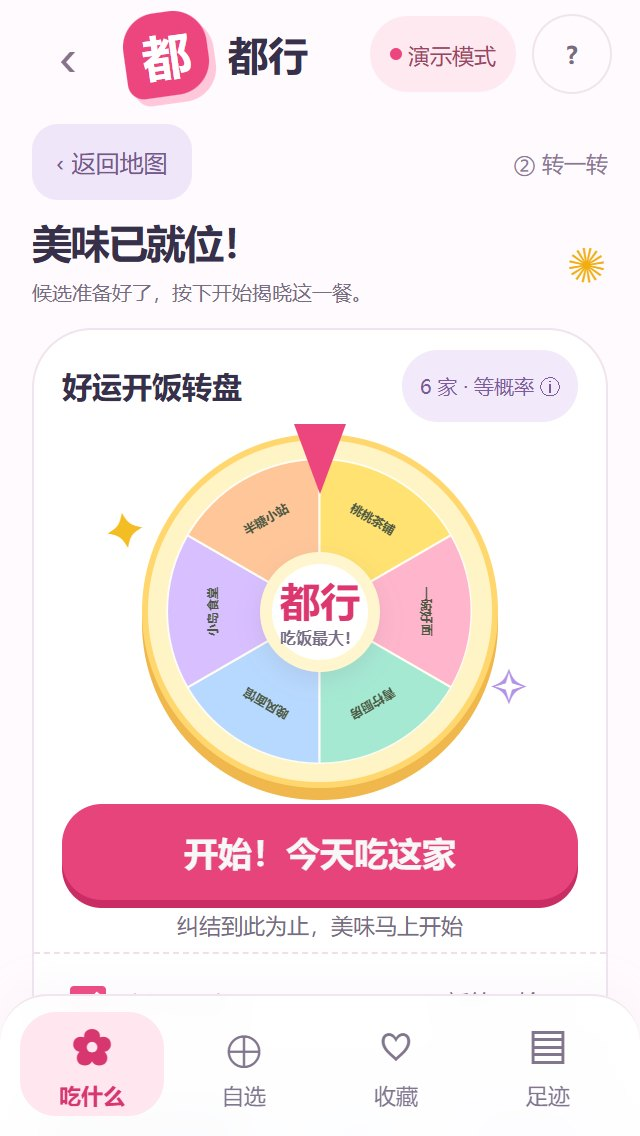
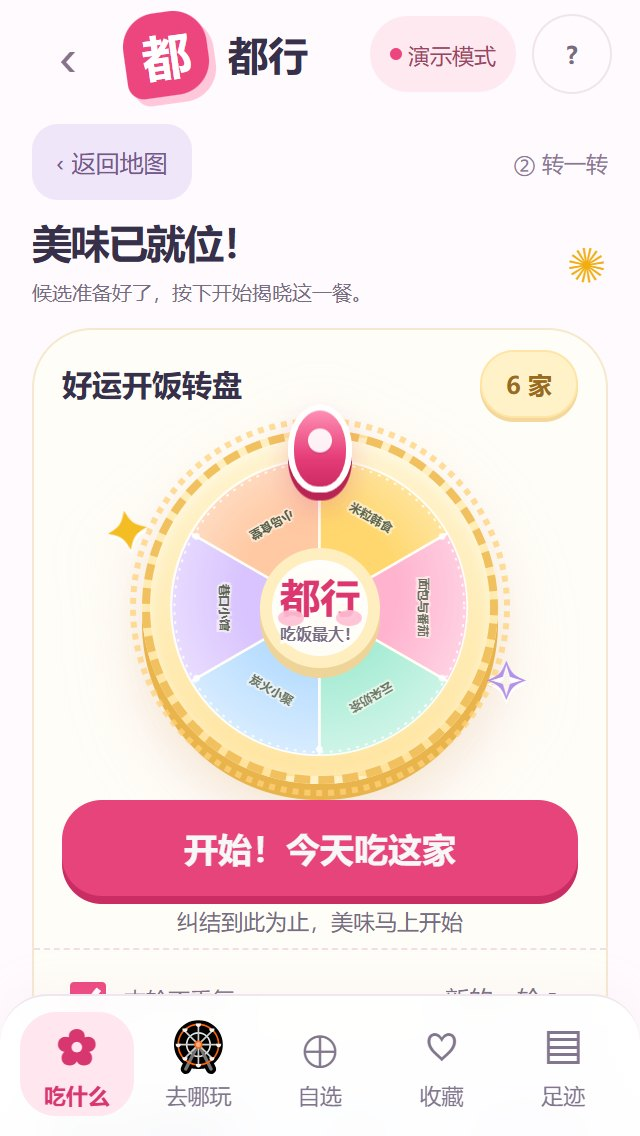
style: cuter cartoon wheel and remove custom filter card
- custom page drops the filter tile; shows current travel/budget conditions and no category re-filter
- wheel header shows only the candidate count; rules stay reachable by tap
- cartoon wheel: dashed butter rim, dotted outer ring, lollipop pointer, blush hub, glossy sectors, dashed inner ring, flipped labels
- empty custom wheel offers a 先添加候选 action that opens the editor
- refresh wheel screenshots and docs

diff --git a/app.js b/app.js
@@ -33,16 +33,17 @@ function renderExplore(){
   const originLabel=state.custom.length?`${state.custom.length} ${play?'个心愿场馆':'家心愿餐厅'}`:state.origin.name;
   $('#view').innerHTML=heading(play?'想玩的，都放进来！':'喜欢的，都放进来！','你来出题，让转盘给答案。')+modeSwitch()+
   `<div class="home-controls"><button class="location-tile" id="openCustom"><span class="tile-icon">${play?'🎡':'🍱'}</span><span class="grow"><small>编辑我的候选</small><strong>${esc(originLabel)}</strong></span><span class="chevron">›</span></button>
-  <button class="filter-tile" id="openFilters"><span class="tile-icon">${play?'🎡':'🍋'}</span><span class="grow"><strong>${c.types.length?esc(c.types.join(' / ')):(play?'玩什么都行':'口味都行')}<small>${c.mode+' '+c.limit+' 分钟'} · ${c.budget?'人均 ¥'+c.budget+' 内':'预算不限'}</small></strong></span><span class="filter-label">筛选</span></button></div>
+  </div>
+  <p class="muted custom-hint">${c.mode} ${c.limit} 分钟 · ${c.budget?'人均 ¥'+c.budget+' 内':'预算不限'} · 手动挑选，不再按类别二次筛选</p>
   ${wheelPanel()}<div class="under-wheel"><button id="openCandidates" class="candidate-entry"><span>${play?'🎡':'🍽'}</span><strong>看看候选</strong><small>${available().length} 家</small><span>›</span></button><button id="refresh" class="refresh-entry" ${state.loading?'disabled':''}>↻ 换一批</button></div>
   <div class="source-line"><span>${custom?'自选候选':state.live?(play?'高德场馆 · 路线时间筛选':'高德餐厅 · 路线时间筛选'):(play?'演示模式 · 虚构场馆':'演示模式 · 虚构餐厅')}</span><button id="mapSetupLink">${state.live?'地图设置':'接入高德'}</button></div>`;
 }
-function wheelPanel(){const a=available(),play=isPlay();const needs=state.live&&state.page!=='custom'&&!a.length;return `<section class="panel wheel-panel"><div class="wheel-header"><h3>${play?'好运出发转盘':'好运开饭转盘'}</h3><button class="odds-pill" id="openRules">${a.length} 家 · 等概率 ⓘ</button></div><div class="wheel-wrap"><span class="wheel-spark spark-a" aria-hidden="true">✦</span><span class="wheel-spark spark-b" aria-hidden="true">✧</span><div class="pointer"></div><div class="wheel-rim"><div class="wheel-disc" id="disc">${wheelSVG(a)}</div></div><div class="hub">都行<small>${play?'玩得开心！':'吃饭最大！'}</small></div></div><div class="wheel-actions"><button id="${needs?'fetchCandidates':'spin'}" class="btn full" ${state.checkingMap||state.loading||(!needs&&!a.length)?'disabled':''}>${state.loading?(play?'正在找好玩的…':'正在找好吃的…'):needs?(play?'找找附近好玩的':'找找附近好吃的'):a.length?(play?'开始！今天就玩这个':'开始！今天吃这家'):'本轮抽完啦'}</button><p class="wheel-status" id="status" role="status">${esc(state.searchMessage||(state.loading?'正在核对路线时间，请稍候':state.drawn.size?'本轮已抽 '+state.drawn.size+' 家，惊喜不重样':needs?'先选好出发点，再找附近'+(play?'场馆':'餐厅'):(play?'纠结到此为止，好玩马上开始':'纠结到此为止，美味马上开始')))}</p></div><div class="wheel-footer"><label><input id="noRepeat" type="checkbox" ${!state.repeat?'checked':''}>本轮不重复</label><button class="quiet" id="reset">新的一轮 ↻</button></div></section>`}
-function wheelSVG(a){const colors=['#ffe271','#ffb6cc','#a5e9d3','#b8d9ff','#d8bfff','#ffc69a','#f9acd9','#a9e4ee','#dbed8c','#efd0fb'];if(!a.length)return '<svg viewBox="0 0 300 300"><circle cx="150" cy="150" r="149" fill="#eeeade"/></svg>';return `<svg viewBox="0 0 300 300">${a.map((s,i)=>{let step=360/a.length,start=-90+i*step,end=start+step,rad=x=>x*Math.PI/180,point=x=>[150+149*Math.cos(rad(x)),150+149*Math.sin(rad(x))],p=point(start),q=point(end),mid=start+step/2;return a.length===1?`<circle cx="150" cy="150" r="149" fill="${colors[0]}"/>`:`<path d="M150 150 L${p} A149 149 0 ${step>180?1:0} 1 ${q} Z" fill="${colors[i%colors.length]}" stroke="#fffdf4" stroke-width="2"/><text x="${150+100*Math.cos(rad(mid))}" y="${150+100*Math.sin(rad(mid))}" transform="rotate(${mid+90} ${150+100*Math.cos(rad(mid))} ${150+100*Math.sin(rad(mid))})" fill="#4c5842" font-size="${a.length>10?9:12}" text-anchor="middle" font-weight="600">${esc(s.name.slice(0,7))}</text>`}).join('')}</svg>`}
+function wheelPanel(){const a=available(),play=isPlay(),emptyCustom=state.page==='custom'&&!a.length;const needs=state.live&&state.page!=='custom'&&!a.length;const actionId=needs?'fetchCandidates':emptyCustom?'openCustom':'spin';const disabled=state.checkingMap||state.loading||(!needs&&!a.length&&!emptyCustom);return `<section class="panel wheel-panel"><div class="wheel-header"><h3>${play?'好运出发转盘':'好运开饭转盘'}</h3><button class="odds-pill" id="openRules" aria-label="查看抽取规则">${a.length} 家</button></div><div class="wheel-wrap"><span class="wheel-spark spark-a" aria-hidden="true">✦</span><span class="wheel-spark spark-b" aria-hidden="true">✧</span><div class="pointer"></div><div class="wheel-rim"><div class="wheel-disc" id="disc">${wheelSVG(a)}</div></div><div class="hub">都行<small>${play?'玩得开心！':'吃饭最大！'}</small></div></div><div class="wheel-actions"><button id="${actionId}" class="btn full" ${disabled?'disabled':''}>${state.loading?(play?'正在找好玩的…':'正在找好吃的…'):needs?(play?'找找附近好玩的':'找找附近好吃的'):a.length?(play?'开始！今天就玩这个':'开始！今天吃这家'):emptyCustom?'先添加候选':'本轮抽完啦'}</button><p class="wheel-status" id="status" role="status">${esc(state.searchMessage||(state.loading?'正在核对路线时间，请稍候':state.drawn.size?'本轮已抽 '+state.drawn.size+' 家，惊喜不重样':needs?'先选好出发点，再找附近'+(play?'场馆':'餐厅'):emptyCustom?(play?'点上面的“编辑我的候选”添加场馆':'点上面的“编辑我的候选”添加餐厅'):(play?'纠结到此为止，好玩马上开始':'纠结到此为止，美味马上开始')))}</p></div><div class="wheel-footer"><label><input id="noRepeat" type="checkbox" ${!state.repeat?'checked':''}>本轮不重复</label><button class="quiet" id="reset">新的一轮 ↻</button></div></section>`}
+function wheelSVG(a){const colors=['#ffd76e','#ffb3cf','#a8ecd5','#b8ddff','#d9c4ff','#ffc9a3','#ff9fd0','#9fe3ee','#dcf19a','#e8d4ff'];const shine='<defs><radialGradient id="wheel-shine" cx="50%" cy="45%" r="55%"><stop offset="48%" stop-color="#fff" stop-opacity="0"/><stop offset="100%" stop-color="#fff" stop-opacity=".45"/></radialGradient></defs>';if(!a.length)return `<svg viewBox="0 0 300 300">${shine}<circle cx="150" cy="150" r="149" fill="#f6f0e2"/><circle cx="150" cy="150" r="149" fill="url(#wheel-shine)"/></svg>`;return `<svg viewBox="0 0 300 300">${shine}${a.map((s,i)=>{const step=360/a.length,start=-90+i*step,end=start+step,rad=x=>x*Math.PI/180,point=x=>[150+149*Math.cos(rad(x)),150+149*Math.sin(rad(x))],p=point(start),q=point(end),mid=start+step/2,flip=(((mid%360)+360)%360)>0&&(((mid%360)+360)%360)<180,tx=150+100*Math.cos(rad(mid)),ty=150+100*Math.sin(rad(mid)),label=a.length===1?'':`<text x="${tx}" y="${ty}" transform="rotate(${mid+90+(flip?180:0)} ${tx} ${ty})" fill="#4c5842" font-size="${a.length>10?9:12}" text-anchor="middle" font-weight="700" stroke="#fffaf0" stroke-width="3" stroke-opacity=".6" paint-order="stroke">${esc(s.name.slice(0,7))}</text>`;return a.length===1?`<circle cx="150" cy="150" r="149" fill="${colors[0]}"/>`:`<path d="M150 150 L${p} A149 149 0 ${step>180?1:0} 1 ${q} Z" fill="${colors[i%colors.length]}" stroke="#fffdf4" stroke-width="2.5"/>${label}`}).join('')}<circle cx="150" cy="150" r="149" fill="url(#wheel-shine)"/><circle cx="150" cy="150" r="145.5" fill="none" stroke="#fff" stroke-opacity=".78" stroke-width="2.2" stroke-dasharray="1 8" stroke-linecap="round"/>${a.length>1?a.map((s,i)=>{const step=360/a.length,ang=(-90+i*step)*Math.PI/180;return `<circle cx="${150+142.5*Math.cos(ang)}" cy="${150+142.5*Math.sin(ang)}" r="3.4" fill="#fff" fill-opacity=".92"/>`}).join(''):''}</svg>`}
 function reasons(s){if(s.manual)return '手动加入 · 尚未关联真实门店';let bits=[s.type];if(s.times)bits.push(state.page==='fair'?'最长约 '+s.max+' 分钟':(s.routeMode||state.config.mode)+'约 '+s.max+' 分钟');if(state.config.budget)bits.push(s.price==null?'价格未知，按设置保留':'符合预算');if(state.config.open)bits.push(s.opening==null?'营业信息未知':'预计到店营业');return bits.join(' · ')}
 function card(s){let fav=state.favorites.some(f=>f.id===s.id);return `<article class="food-card"><button class="favorite ${fav?'saved':''}" data-fav="${s.id}" aria-label="收藏${esc(s.name)}">${fav?'♥':'♡'}</button><button class="food-art full" data-detail="${s.id}" style="background:${s.color||'#ebead9'}"><span>${s.emoji||'🍽'}</span></button><div class="food-info"><h3>${esc(s.name)}</h3><div class="food-meta"><span>${esc(s.type||'自定义')}</span><span>${s.price==null?'人均未知':'¥'+s.price+'/人'}</span></div><div class="reason">${esc(reasons(s))}${state.visits.some(v=>v.storeId===s.id)?' · 我去过':''}</div></div><div class="card-foot"><button data-detail="${s.id}">看看这家 ↗</button><button data-exclude="${s.id}">本轮移除 ×</button></div></article>`}
 function fairPanel(){return `<div class="panel-body"><p class="muted">演示起点 · 2～6 位，各自选好路程就行。</p><div class="people">${state.people.map((p,i)=>`<div class="person"><span class="person-color-pin" style="color:${personIdentity(i).color}">${originPin(personIdentity(i).username)}</span>${usernameField(i)}<select data-person="${i}" data-key="place">${places.map((v,j)=>`<option value="${j}" ${p.place===j?'selected':''}>${v.name}</option>`).join('')}</select><select data-person="${i}" data-key="mode">${['步行','公共交通','驾车'].map(t=>`<option ${p.mode===t?'selected':''}>${t}</option>`).join('')}</select><select data-person="${i}" data-key="limit">${[10,15,20,30,45,60].map(t=>`<option value="${t}" ${p.limit===t?'selected':''}>${t}分钟</option>`).join('')}</select><button data-remove-person="${i}" aria-label="移除成员${i+1}" ${state.people.length<=2?'disabled':''}>×</button></div>`).join('')}</div><button id="addPerson" class="btn secondary small" ${state.people.length>=6?'disabled':''}>＋ 添加出发点</button><button class="btn full sheet-note" id="applyFilters">大家选好了</button><details class="fold"><summary>怎么比较大家的路程？</summary><p class="muted">先确保每个人都能到达，再比较最长路程、路程差和总耗时。此处路线为演示，候选转盘仍等概率。</p></details></div>`}
-function customPanel(){const play=isPlay(),stores=play?Doux.playStores:Doux.stores;return `<div class="panel-body"><p class="muted">${play?'写下想玩的场馆名，或添加已关联场馆。':'写下纠结的店名，或添加已关联门店。'}</p><div class="search-line"><input id="customName" maxlength="40" placeholder="${play?'输入一个场馆名字':'输入一个餐厅名字'}"><button id="addCustom" class="btn small">添加</button></div><select id="pickStore" class="full"><option value="">${play?'从演示场馆添加…':'从演示门店添加…'}</option>${stores.map(s=>`<option value="${s.id}">${s.name} · ${s.type}</option>`).join('')}</select><div class="divider"></div><div class="section-list">${state.custom.map(s=>`<div class="list-row" style="padding:10px"><span>${s.emoji||(play?'🎡':'🍽')}</span><div class="grow">${esc(s.name)}<p>${s.manual?'纯文字候选':s.source==='amap'?(play?'高德真实场馆':'高德真实门店'):(play?'演示场馆':'演示门店')}</p></div><button data-rename="${s.id}" class="quiet">改名</button><button data-delete-custom="${s.id}" class="quiet">移除</button></div>`).join('')||'<p class="muted">添加 2 家以上，转盘就准备好了。</p>'}</div><div class="divider"></div><button id="customValidate" class="btn secondary full">按当前附近条件校验</button><p class="muted" style="margin-top:10px">默认不套用附近筛选，最多 20 项。也可以从“我的收藏”加入。</p></div>`}
+function customPanel(){const play=isPlay(),stores=play?Doux.playStores:Doux.stores;return `<div class="panel-body"><p class="muted">${play?'写下想玩的场馆名，或添加已关联场馆。':'写下纠结的店名，或添加已关联门店。'}</p><div class="search-line"><input id="customName" maxlength="40" placeholder="${play?'输入一个场馆名字':'输入一个餐厅名字'}"><button id="addCustom" class="btn small">添加</button></div><select id="pickStore" class="full"><option value="">${play?'从演示场馆添加…':'从演示门店添加…'}</option>${stores.map(s=>`<option value="${s.id}">${s.name} · ${s.type}</option>`).join('')}</select><div class="divider"></div><div class="section-list">${state.custom.map(s=>`<div class="list-row" style="padding:10px"><span>${s.emoji||(play?'🎡':'🍽')}</span><div class="grow">${esc(s.name)}<p>${s.manual?'纯文字候选':s.source==='amap'?(play?'高德真实场馆':'高德真实门店'):(play?'演示场馆':'演示门店')}</p></div><button data-rename="${s.id}" class="quiet">改名</button><button data-delete-custom="${s.id}" class="quiet">移除</button></div>`).join('')||'<p class="muted">添加 2 家以上，转盘就准备好了。</p>'}</div><div class="divider"></div><button id="customValidate" class="btn secondary full">按路程与预算校验</button><p class="muted" style="margin-top:10px">手动挑选的候选不再按类别筛选；最多 20 项。也可以从“我的收藏”加入。</p></div>`}
 function bindMap(){let m=$('#map');if(!m)return;let moving=false;const move=e=>{let r=m.getBoundingClientRect();state.origin={name:'自选出发点',x:Math.max(5,Math.min(95,(e.clientX-r.left)/r.width*100)),y:Math.max(5,Math.min(95,(e.clientY-r.top)/r.height*100))};m.querySelector('.pin').style.left=state.origin.x+'%';m.querySelector('.pin').style.top=state.origin.y+'%'};m.onpointerdown=e=>{moving=true;m.setPointerCapture(e.pointerId);move(e)};m.onpointermove=e=>{if(moving)move(e)};m.onpointerup=()=>{moving=false;generate();render()};}
 function showModal(html){if(typeof disposeMap==='function')disposeMap();const dialog=$('#modal'),wasOpen=dialog.open,prevTitle=dialog.querySelector('.modal-top h3')?.textContent||'';$('#modal-content').innerHTML=`<div class="modal-inner">${html}</div>`;const nextTitle=$('#modal-content .modal-top h3')?.textContent||'';if(!wasOpen||nextTitle!==prevTitle)dialog.scrollTop=0;if(!dialog.open)dialog.showModal()}
 function modalTop(title){return `<div class="modal-top"><h3>${title}</h3><button class="close" data-close aria-label="关闭">×</button></div>`}
@@ -65,7 +66,7 @@ function share(){state.bg++;let s=state.last,play=s.activity==='play',c=document
 function addCustom(s){if(!s)return toast('没有找到这个选项');const target=s.activity==='play'?'play':'food';if(state.activity!==target)setActivity(target);const list=state.custom;if(list.length>=20)return toast('最多添加 20 项');if(list.some(x=>x.id===s.id||x.name===s.name))return toast('已经在自选候选里了');list.push({...s});state.page='custom';state.stage='map';state.searchMessage='';generate();render();openCustom();toast('已加入自选转盘')}
 $('#nav').onclick=e=>{let b=e.target.closest('[data-page]');if(b)navigate(b.dataset.page)};
 document.addEventListener('click',e=>{let b=e.target.closest('button');if(!b)return;let d=b.dataset;if(state.busy)return; if(d.customActivity){setActivity(d.customActivity);state.page='custom';state.stage='map';state.searchMessage='';generate();render();return}if(d.visitTab){state.visitTab=d.visitTab;render();return} if(handleHomeAction(b)||handleDiscoveryAction(b)||handleCompactAction(b))return; if(d.close!==undefined){$('#modal').close();return}if(d.type){state.config.types=d.type==='不限'?[]:state.config.types.includes(d.type)?state.config.types.filter(t=>t!==d.type):[...state.config.types,d.type];generate();render();openFilters();return}if(d.mode){state.config.mode=d.mode;generate();render();openFilters();return}if(d.limit){state.config.limit=+d.limit;generate();render();openFilters();return}if(d.fav){favorite(d.fav);return}if(d.detail){let s=state.candidates.find(x=>x.id===d.detail)||find(d.detail);if(s)detail(s);return}if(d.exclude){state.excluded.add(d.exclude);render();openCandidates();return}if(d.removePerson){state.people.splice(+d.removePerson,1);state.activeOrigin=Math.min(state.activeOrigin,state.people.length-1);generate();render();openPeople();return}if(d.deleteCustom){state.custom=state.custom.filter(s=>s.id!==d.deleteCustom);generate();render();openCustom();return}if(d.rename){let s=state.custom.find(s=>s.id===d.rename),name=prompt('修改显示名称（不改变门店身份）',s.name);if(name?.trim()){s.name=name.trim().slice(0,40);generate();render();openCustom()}return}if(d.addFavorite){addCustom(find(d.addFavorite));return}if(d.editVisit){let v=state.visits.find(v=>v.id===d.editVisit);recordForm(find(v.storeId)||{id:v.storeId,name:v.name,activity:v.activity||'food'},v);return}if(d.deleteVisit){if(confirm('删除这条记录？')){let next=state.visits.filter(v=>v.id!==d.deleteVisit);if(save('visits',next)){state.visits=next;render()}}return}if(d.adjust){state.bg++;let key=d.adjust,opts=key==='limit'?[10,15,20,30,45,60]:key==='budget'?[0,50,100,150,200]:typeList().filter(t=>t!=='不限');showModal(modalTop('调整条件')+`<p class="muted">${state.page==='custom'?'自定义模式将校验已关联门店，不会补入附近餐厅。':'其余条件和本轮排除记录会保留。'}</p><div class="chips" style="margin-top:20px">${opts.map(o=>`<button class="chip" data-apply="${key}" data-value="${o}">${o||'不限'}${key==='limit'?' 分钟':key==='budget'&&o?' 元':''}</button>`).join('')}</div>`);return}if(d.apply){if(d.apply==='type')state.config.types=d.value==='不限'?[]:[d.value];else state.config[d.apply]=+d.value;if(state.page==='fair'&&d.apply==='limit')state.people.forEach(p=>p.limit=+d.value);if(state.page==='custom'){validateCustom();return;}generate();$('#modal').close();render();if(state.live)refreshCandidates();return}
-switch(b.id){case 'spin':spin();break;case 'generate':generate();render();document.querySelector('.wheel-panel').scrollIntoView({behavior:'smooth',block:'start'});toast('候选已更新 · 演示数据');break;case 'refresh':if(state.page==='custom')openCustom();else refreshCandidates();break;case 'reset':state.drawn.clear();state.excluded.clear();refreshCandidates();toast('新一轮已准备好');break;case 'searchPlace':{let q=$('#placeSearch').value.trim(),p=places.find(p=>p.name.includes(q)&&q);if(!p)return toast('演示地点：榕树广场、花园地铁站、沿河公园、大学城南门');state.origin={...p};generate();render();break}case 'locate':toast('演示版使用榕树广场，不采集实际位置');state.origin={...places[0]};generate();render();break;case 'addPerson':if(state.people.length<6){state.people.push({username:'用户'+(state.people.length+1),color:personColors.find(color=>!state.people.some(p=>p.color===color))||personColors[0],place:state.people.length%4,mode:'步行',limit:30});generate();render();openPeople()}break;case 'addCustom':{let name=$('#customName').value.trim();if(!name)return toast(isPlay()?'先写下一个场馆名':'先写下一个餐厅名');addCustom({id:'custom-'+crypto.randomUUID(),name,manual:true,type:'自定义',emoji:isPlay()?'🎡':'🍽',activity:isPlay()?'play':'food'});break}case 'customValidate':state.candidates=state.custom.filter(s=>!s.manual&&s.source!=='amap').map(s=>Doux.evaluate(s,state.config,people())).filter(s=>s.eligible);render();toast('仅保留通过演示条件的已关联'+(isPlay()?'场馆':'门店'));break;case 'again':$('#modal').close();if(['favorites','visits'].includes(state.page))navigate('near');if(state.live&&!available().length&&state.page!=='custom')refreshCandidates();else spin();break;case 'reject':state.excluded.add(state.last.id);$('#modal').close();render();toast('本轮已排除这家');break;case 'record':recordForm(state.last);break;case 'share':share();break;case 'route':if(state.last.source==='amap'){openRealRoute(state.last);break;}showModal(modalTop('出发路线 · 演示')+`<div class="intro-box">${esc(state.last.name)}<br>${esc(state.last.address)}</div><p class="muted">这里展示交互流程，不提供真实导航。${state.page==='fair'?'选择一位参与者查看模拟路线。':''}</p><div class="section-list" style="margin-top:15px">${people().map((p,i)=>`<div class="list-row"><div class="grow"><b>${state.page==='fair'?String.fromCharCode(65+i):'你'} · ${p.mode}</b><p>${esc(p.name)} → ${esc(state.last.name)}</p></div><strong>约 ${Doux.duration(state.last,p)} 分钟</strong></div>`).join('')}</div>`);break;case 'newVisit':{const playTab=state.visitTab==='play';const base=[...Object.values(state.catalog),...(state.live?[]:(playTab?Doux.playStores:Doux.stores)),...state.favorites];const pool=[...new Map(base.map(s=>[s.id,s])).values()].filter(s=>(s.activity==='play')===playTab);showModal(modalTop(playTab?'选择实际到过的场馆':'选择实际到过的餐厅')+`<select id="recordPick" class="full"><option value="">${playTab?'请选择场馆':'请选择餐厅'}</option>${pool.map(s=>`<option value="${s.id}">${s.name}</option>`).join('')}</select>`);break}case 'clearVisits':{const tab=state.visitTab||'food',label=tab==='play'?'游玩记录':'到店记录';if(confirm('清空全部'+label+'？收藏不会删除。')){const next=state.visits.filter(v=>(v.activity||'food')!==tab);if(save('visits',next)){state.visits=next;render()}}break}case 'help':showModal(modalTop('你好，这里是「都行」')+'<div class="detail-copy">这是可交互的离线原型。<br>① 选择起点、时间和菜系，生成候选。<br>② 开始转盘，先整理中奖店再展示。<br>③ 体验收藏、分享卡片与到店 / 游玩记录；自选与足迹页可切换美食 / 游玩。<br>④ 试试公平集合点或自定义转盘；主页「去哪玩」是看电影、密室逃脱、剧本杀等场馆转盘。<br><br>餐厅、地图、路线、评分与 AI 检索均为演示。收藏和到店记录仅保存在当前浏览器。清除站点数据会删除这些记录。</div>');break;}
+switch(b.id){case 'spin':spin();break;case 'generate':generate();render();document.querySelector('.wheel-panel').scrollIntoView({behavior:'smooth',block:'start'});toast('候选已更新 · 演示数据');break;case 'refresh':if(state.page==='custom')openCustom();else refreshCandidates();break;case 'reset':state.drawn.clear();state.excluded.clear();refreshCandidates();toast('新一轮已准备好');break;case 'searchPlace':{let q=$('#placeSearch').value.trim(),p=places.find(p=>p.name.includes(q)&&q);if(!p)return toast('演示地点：榕树广场、花园地铁站、沿河公园、大学城南门');state.origin={...p};generate();render();break}case 'locate':toast('演示版使用榕树广场，不采集实际位置');state.origin={...places[0]};generate();render();break;case 'addPerson':if(state.people.length<6){state.people.push({username:'用户'+(state.people.length+1),color:personColors.find(color=>!state.people.some(p=>p.color===color))||personColors[0],place:state.people.length%4,mode:'步行',limit:30});generate();render();openPeople()}break;case 'addCustom':{let name=$('#customName').value.trim();if(!name)return toast(isPlay()?'先写下一个场馆名':'先写下一个餐厅名');addCustom({id:'custom-'+crypto.randomUUID(),name,manual:true,type:'自定义',emoji:isPlay()?'🎡':'🍽',activity:isPlay()?'play':'food'});break}case 'customValidate':state.candidates=state.custom.filter(s=>!s.manual&&s.source!=='amap').map(s=>Doux.evaluate(s,{...state.config,types:[]},people())).filter(s=>s.eligible);render();toast('仅保留通过路程与预算校验的已关联'+(isPlay()?'场馆':'门店'));break;case 'again':$('#modal').close();if(['favorites','visits'].includes(state.page))navigate('near');if(state.live&&!available().length&&state.page!=='custom')refreshCandidates();else spin();break;case 'reject':state.excluded.add(state.last.id);$('#modal').close();render();toast('本轮已排除这家');break;case 'record':recordForm(state.last);break;case 'share':share();break;case 'route':if(state.last.source==='amap'){openRealRoute(state.last);break;}showModal(modalTop('出发路线 · 演示')+`<div class="intro-box">${esc(state.last.name)}<br>${esc(state.last.address)}</div><p class="muted">这里展示交互流程，不提供真实导航。${state.page==='fair'?'选择一位参与者查看模拟路线。':''}</p><div class="section-list" style="margin-top:15px">${people().map((p,i)=>`<div class="list-row"><div class="grow"><b>${state.page==='fair'?String.fromCharCode(65+i):'你'} · ${p.mode}</b><p>${esc(p.name)} → ${esc(state.last.name)}</p></div><strong>约 ${Doux.duration(state.last,p)} 分钟</strong></div>`).join('')}</div>`);break;case 'newVisit':{const playTab=state.visitTab==='play';const base=[...Object.values(state.catalog),...(state.live?[]:(playTab?Doux.playStores:Doux.stores)),...state.favorites];const pool=[...new Map(base.map(s=>[s.id,s])).values()].filter(s=>(s.activity==='play')===playTab);showModal(modalTop(playTab?'选择实际到过的场馆':'选择实际到过的餐厅')+`<select id="recordPick" class="full"><option value="">${playTab?'请选择场馆':'请选择餐厅'}</option>${pool.map(s=>`<option value="${s.id}">${s.name}</option>`).join('')}</select>`);break}case 'clearVisits':{const tab=state.visitTab||'food',label=tab==='play'?'游玩记录':'到店记录';if(confirm('清空全部'+label+'？收藏不会删除。')){const next=state.visits.filter(v=>(v.activity||'food')!==tab);if(save('visits',next)){state.visits=next;render()}}break}case 'help':showModal(modalTop('你好，这里是「都行」')+'<div class="detail-copy">这是可交互的离线原型。<br>① 选择起点、时间和菜系，生成候选。<br>② 开始转盘，先整理中奖店再展示。<br>③ 体验收藏、分享卡片与到店 / 游玩记录；自选与足迹页可切换美食 / 游玩。<br>④ 试试公平集合点或自定义转盘；主页「去哪玩」是看电影、密室逃脱、剧本杀等场馆转盘。<br><br>餐厅、地图、路线、评分与 AI 检索均为演示。收藏和到店记录仅保存在当前浏览器。清除站点数据会删除这些记录。</div>');break;}
 });
 document.addEventListener('change',e=>{let t=e.target;if(t.dataset.person!==undefined){let p=state.people[+t.dataset.person],key=t.dataset.key;p[key]=key==='username'?(t.value.trim().slice(0,20)||'用户'+(+t.dataset.person+1)):key==='mode'?t.value:+t.value;if(key==='username'){if(+t.dataset.person===0)state.username=p[key];return;}if(key==='place')delete p.demoOrigin;generate();render();openPeople();return}if(['budget','count','open','unknownPrice','unknownHours'].includes(t.id)){state.config[t.id]=t.type==='checkbox'?t.checked:+t.value;generate();render()}if(t.id==='noRepeat'){state.repeat=!t.checked;render()}if(t.id==='pickStore'&&t.value)addCustom(find(t.value));if(t.id==='recordPick'&&t.value)recordForm(find(t.value));});
 document.addEventListener('submit',e=>{if(e.target.id!=='visitForm')return;e.preventDefault();let form=e.target,f=new FormData(form),date=f.get('date');if(date>today())return toast('日期不能在未来');let existing=state.visits.find(v=>v.id===form.dataset.visit),s=find(form.dataset.store)||{id:form.dataset.store,name:existing?.name||state.last?.name||'手工记录',emoji:existing?.emoji,activity:form.dataset.activity||existing?.activity||'food'};let v={id:existing?.id||crypto.randomUUID(),storeId:s.id,name:s.name,emoji:s.emoji,activity:s.activity==='play'?'play':'food',date,feeling:f.get('feeling'),price:f.get('price')===''?null:+f.get('price'),note:f.get('note')};let next=existing?state.visits.map(x=>x.id===v.id?v:x):[...state.visits,v];if(save('visits',next)){state.visits=next;state.visitTab=v.activity;$('#modal').close();render();toast(v.activity==='play'?'这次玩乐，已经记下了':'这顿饭，已经记下了')}});

diff --git a/style.css b/style.css
@@ -154,3 +154,20 @@ dialog{max-height:90vh;max-height:90dvh}
 /* 自选 / 足迹：美食与游玩模式切换 */
 .mode-toggle{margin:0 0 14px}
 .mode-toggle .chip{font-size:12px;padding:8px 14px;min-height:38px}
+/* 自选页：去掉筛选卡片后的条件提示 */
+.custom-hint{margin:-4px 2px 14px;line-height:1.7}
+/* 转盘：可爱卡通风 */
+.wheel-panel{background:#fffdf7;border:1px solid #f6e8cf}
+.wheel-wrap{filter:drop-shadow(0 12px 16px #e7c9d045)}
+.wheel-rim{position:relative;background:radial-gradient(circle at 50% 36%,#fffdf2,#ffedb9 58%,#ffd981);border:4px dashed #f2c15f;padding:10px;box-shadow:0 8px 0 #e9b44c,inset 0 3px 8px #fffbe8,0 14px 22px #e8c07a3d}
+.wheel-rim::before{content:'';position:absolute;inset:-10px;border-radius:50%;border:3px dotted #ffd27a;opacity:.75;pointer-events:none}
+.wheel-disc{box-shadow:inset 0 0 0 5px #ffffff55}
+.pointer{left:calc(50% - 16px);top:-14px;width:32px;height:44px;border:3px solid #fff;border-radius:50% 50% 46% 46%;background:linear-gradient(180deg,#ff8fb4,#e63d78 62%,#ce2a62);box-shadow:0 4px 0 #b92455,0 8px 14px #d3417c40;clip-path:none;animation:pointer-bob 2.8s ease-in-out infinite}
+.pointer::after{content:'';position:absolute;left:50%;top:9px;width:12px;height:12px;margin-left:-6px;border-radius:50%;background:#fff;opacity:.92;box-shadow:0 1px 0 #00000012}
+.hub{background:#fffdf6;border:6px solid #ffefc0;box-shadow:0 5px 0 #efd49a,inset 0 2px 6px #fff;text-shadow:0 2px 0 #fff}
+.hub::before,.hub::after{content:'';position:absolute;bottom:31%;width:13px;height:8px;border-radius:50%;background:#ffbfd4;opacity:.9}
+.hub::before{left:7%}.hub::after{right:7%}
+.odds-pill{background:#fff2c9;color:#9a6a1f;border:1px solid #ffe4a6;font-size:12px;font-weight:700;padding:7px 12px;min-height:34px;box-shadow:0 2px 0 #f4d79b}
+.wheel-spark{font-size:28px;filter:drop-shadow(0 2px 0 #fff)}
+@keyframes pointer-bob{0%,100%{transform:translateY(0)}50%{transform:translateY(2px)}}
+@media(prefers-reduced-motion:reduce){.pointer{animation:none}}

diff --git a/map-ui.js b/map-ui.js
@@ -113,15 +113,13 @@ async function validateCustom(){
     if(token!==state.request)return;
     if(store.manual)continue;
     if(store.source==='amap'){
-      const matched=play?DouxMap.matchesPlay(store,config.types.length?config.types:DouxMap.playTypes):DouxMap.matchesCuisine(store,config.types);
-      if(!matched)continue;
       try{const time=await DouxMap.route(origin.location,store.location,config.mode);
         if(DouxMap.eligible(store,config,[time],[config.limit]))accepted.push({...store,times:[time],max:time,opening:null,routeMode:config.mode});
       }catch{failed++;}
     }else if(!state.live){const checked=Doux.evaluate(store,config,[{...origin,mode:config.mode,limit:config.limit}]);if(checked.eligible)accepted.push(checked);}
   }
   if(token!==state.request)return;
-  state.candidates=accepted;state.loading=false;render();toast(`校验后保留 ${accepted.length} ${play?'家场馆':'家餐厅'}${failed?'，部分路线未获取':''}；未关联选项不参与校验`);
+  state.candidates=accepted;state.loading=false;render();toast(`校验后保留 ${accepted.length} ${play?'家场馆':'家餐厅'}${failed?'，部分路线未获取':''}；仅按路程与预算，未关联选项不参与校验`);
 }
 function handleCompactAction(button){
   const d=button.dataset;

diff --git a/验证记录.md b/验证记录.md
@@ -139,3 +139,12 @@
 
 - 游玩自选与足迹仍只保存在当前浏览器、不登录不同步；纯文字游玩项不能校验路线。
 - 自选切换模式会清空本轮抽取/排除状态（与切换美食 / 游玩页一致），候选列表本身保留。
+
+## 自选、转盘与数量展示调整（2026-11-03）
+
+- 自选页移除「筛选」卡片：手动挑选的候选直接参与转盘，页面改为一行「出行方式 · 时间 · 预算 · 手动挑选，不再按类别二次筛选」提示；校验按钮改为「按路程与预算校验」，演示与真实模式都不再按菜系 / 场馆类别二次过滤。
+- 转盘右上角只显示候选数量（如「6 家」），点击仍打开抽取规则。
+- 转盘视觉改为卡通糖果风：奶油色虚线外框、波点外圈、糖果造型指针（白点 + 轻微浮动动画）、中心腮红、柔和渐变扇区、白色虚线内圈与刻度点；文字加白色描边并按扇区自动翻转朝上。空自选状态按钮改为「先添加候选」，点击直接打开候选编辑。
+- 实测：390×844 与 320×568 下转盘无横向溢出；抽取动画与结果弹层正常；自选页只剩 1 张卡片，条件提示与空态按钮正确。真实高德数据下重新生成候选，转盘数量显示与抽取正常。
+- 截图按新样式重拍：wheel.jpg、milk-tea-wheel.jpg、play-wheel.jpg 使用真实高德数据；custom-play.jpg、small-screen-wheel.jpg 为演示模式（样式与真实模式一致）。
+- node test.cjs 18 项、node --test map-test.cjs 16 项与 JavaScript 语法检查通过。

diff --git a/README.md b/README.md
@@ -6,6 +6,8 @@
 
 已保留附近筛选、菜系（新增奶茶）/时间/预算、营业与未知处理、等概率抽取、本轮不重复、入选理由、快速调整、自定义候选、收藏、分享图片、本机到店记录与反馈、公平集合点。
 
+自选页不再显示筛选卡片：手动挑选的候选直接参与转盘，校验只按路程与人均预算，不再按类别二次筛选。转盘右上角只显示候选数量，整体改为奶油糖果卡通风（虚线外框、波点外圈、糖果指针与腮红中心）。
+
 「自选」与「足迹」都支持美食 / 游玩两种模式，可在页面顶部切换：游玩自选可手动输入、从演示场馆添加，或用高德搜索真实场馆并按游玩条件校验；游玩记录记录到访体验、人均与备注，清空时只清空当前模式。「收藏」中的游玩场馆可直接加入游玩自选。
 
 「去哪玩」与美食共用同一套地图、路程和转盘流程：可按看电影、密室逃脱、剧本杀、唱K、桌游、酒吧、看演出筛附近的娱乐场馆，核对步行 / 公交地铁 / 驾车时间后生成转盘抽取，结果页提供场馆资料、收藏、分享卡片与高德导航。游玩模式只使用单人出发点，暂不做营业 / 场次筛选与到店用餐记录。
